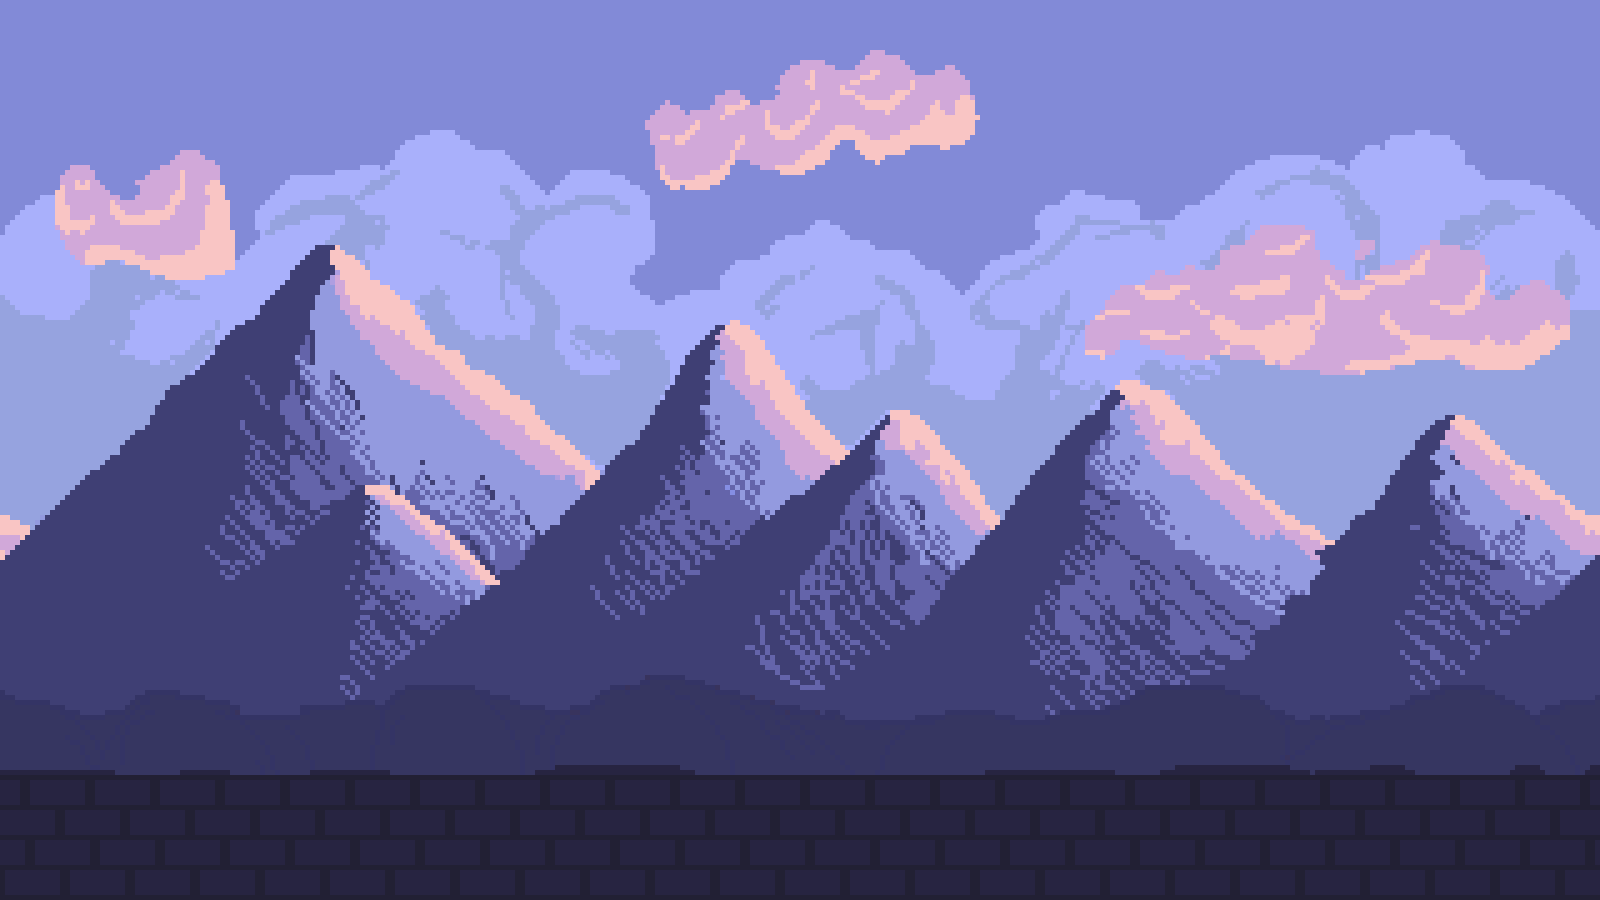
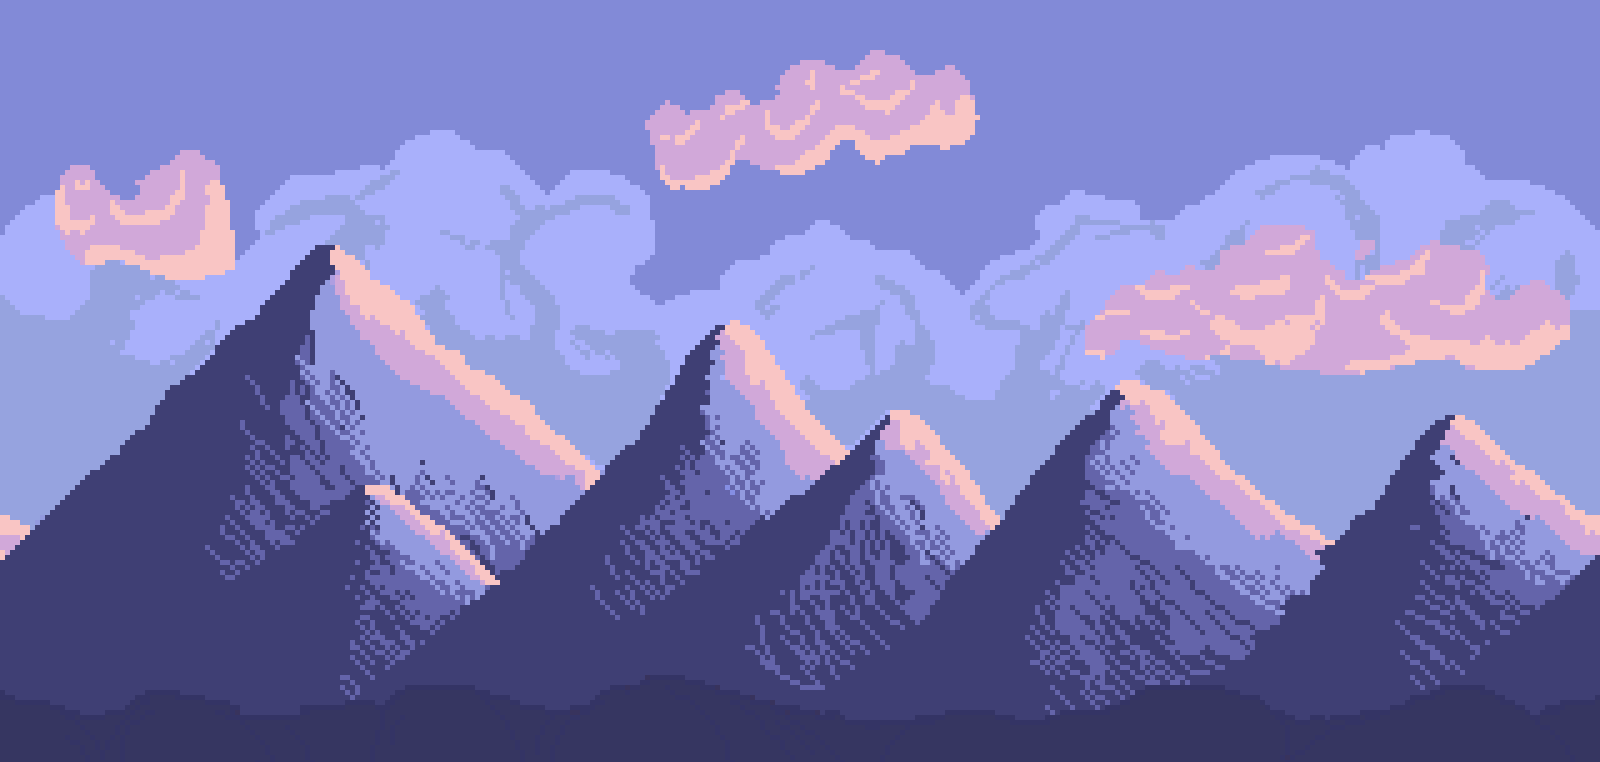
1. adding night mode 2. bug fixes 3. adding a parallax effect

diff --git a/src/App.vue b/src/App.vue
@@ -1,14 +1,15 @@
 <template>
-  <div class="main" @keydown="handleKeyDown" tabindex="0">
-    <h1 class="score">Очки: {{ score }}</h1>
-    <div class="game-area">
-      <div class="character"
-           :style="{ bottom: `${dinoBottom}px`, left: `${dinoLeft}px`, backgroundImage: `url(${characterFrames[frameIndex]})` }"></div>
-      <div v-for="(obstacle, index) in obstacles" :key="index" class="obstacle"
-           :style="{ bottom: `${obstacle.bottom}px`, left: `${obstacle.left}px`, backgroundImage: 'url(src/assets/spike_1.png)' }"></div>
-      <div class="ground"></div>
+    <div class="main" :class="{ 'night-mode': isNightMode }" @keydown="handleKeyDown" tabindex="0"
+         :style="{ backgroundPosition: `${parallaxOffsetLayer5}px 0, ${parallaxOffsetLayer3}px 0, ${parallaxOffsetLayer4}px 0, ${parallaxOffsetLayer2}px 0, 0 0` }">
+      <h1 class="score">Очки: {{ score }}</h1>
+      <div class="game-area">
+        <div class="character"
+             :style="{ bottom: `${dinoBottom}px`, left: `${dinoLeft}px`, backgroundImage: `url(${characterFrames[frameIndex]})` }"></div>
+        <div v-for="(obstacle, index) in obstacles" :key="index" class="obstacle"
+             :style="{ bottom: `${obstacle.bottom}px`, left: `${obstacle.left}px`, backgroundImage: 'url(src/assets/spike_1.png)' }"></div>
+        <div class="ground"></div>
+      </div>
     </div>
-  </div>
 </template>
 
 <script lang="ts">
@@ -32,6 +33,15 @@ export default {
         'src/assets/run_8.png',
       ],
       frameIndex: 0 as number,
+      parallaxOffsetLayer5: 0 as number,
+      parallaxOffsetLayer4: 0 as number,
+      parallaxOffsetLayer3: 0 as number,
+      parallaxOffsetLayer2: 0 as number,
+      parallaxLayer2Speed: 0.05 as number,
+      parallaxLayer3Speed: 1 as number,
+      parallaxLayer4Speed: 0.35 as number,
+      parallaxLayer5Speed: 0.5 as number,
+      isNightMode: false as boolean,
     };
   },
   methods: {
@@ -76,6 +86,7 @@ export default {
         if (this.obstacles[i].left < -7) {
           this.obstacles.splice(i, 1);
           this.score++;
+          this.checkNightMode();
         }
       }
     },
@@ -83,8 +94,8 @@ export default {
       const dino = {
         bottom: this.dinoBottom,
         left: this.dinoLeft,
-        right: this.dinoLeft + 30,
-        top: this.dinoBottom + 30,
+        right: this.dinoLeft + 50,
+        top: this.dinoBottom + 50,
       };
 
       for (const obstacle of this.obstacles) {
@@ -107,10 +118,42 @@ export default {
     resetGame() {
       this.obstacles = [];
       this.score = 0;
+      this.isNightMode = false;
+      this.$el.classList.remove('night-mode');
     },
     gameLoop() {
       this.moveObstacles();
       this.checkCollisions();
+    },
+    checkNightMode() {
+      if (this.score >= 10 && !this.isNightMode) {
+        this.isNightMode = true;
+        this.$el.classList.add('night-mode');
+      }
+    },
+    parallaxAnimation() {
+      setInterval(() => {
+        this.parallaxOffsetLayer3 -= this.parallaxLayer3Speed;
+        this.parallaxOffsetLayer4 += this.parallaxLayer4Speed;
+        this.parallaxOffsetLayer2 += this.parallaxLayer2Speed;
+        this.parallaxOffsetLayer5 -= this.parallaxLayer5Speed;
+        const containerWidth = 1280;
+        if (this.parallaxOffsetLayer3 <= -containerWidth) {
+          this.parallaxOffsetLayer3 = 0;
+        }
+
+        if (this.parallaxOffsetLayer4 <= -containerWidth) {
+          this.parallaxOffsetLayer4 = 0;
+        }
+
+        if (this.parallaxOffsetLayer4 <= -containerWidth) {
+          this.parallaxOffsetLayer4 = 0;
+        }
+
+        if (this.parallaxOffsetLayer5 <= -containerWidth) {
+          this.parallaxOffsetLayer5 = 0;
+        }
+      }, 20);
     },
   },
   mounted() {
@@ -122,11 +165,20 @@ export default {
         left: 1270,
       });
       this.coef += 0.05
-      setTimeout(addObstacle, (500 + Math.random() * 2000));
+      this.parallaxLayer3Speed += 0.01
+      this.parallaxLayer2Speed += 0.01
+      this.parallaxLayer4Speed += 0.01
+      this.parallaxLayer5Speed += 0.01
+      if (this.score < 50) {
+        setTimeout(addObstacle, (500 + Math.random() * 2000) + 0.05);
+      } else if (this.score >= 50) {
+        setTimeout(addObstacle, (450 + Math.random() * 1800) + 0.05);
+      }
     };
     addObstacle();
     setInterval(this.gameLoop, 15)
     this.animateCharacter();
+    this.parallaxAnimation();
   },
 };
 </script>
@@ -144,9 +196,14 @@ export default {
   top: 50%;
   left: 50%;
   transform: translate(-50%, -50%);
-  background-image: url(assets/mount1.png);
-  background-repeat: no-repeat;
+  background-image: url(assets/Layer_5.png), url(assets/Layer_3.png), url(assets/Layer_4.png), url(assets/Layer_2.png), url(assets/Layer_1.png);
+  background-repeat: repeat;
   background-size: cover;
+  transition: background-image 4s ease;
+}
+
+.main.night-mode {
+  background-image: url(assets/Layer_5_night.png), url(assets/Layer_3_night.png), url(assets/Layer_4_night.png), url(assets/Layer_2_night.png), url(assets/Layer_1_night.png);
 }
 
 .game-area {
@@ -180,8 +237,8 @@ export default {
 
 .character {
   position: absolute;
-  width: 120px;
-  height: 120px;
+  width: 140px;
+  height: 140px;
   background-size: cover;
 }
 
